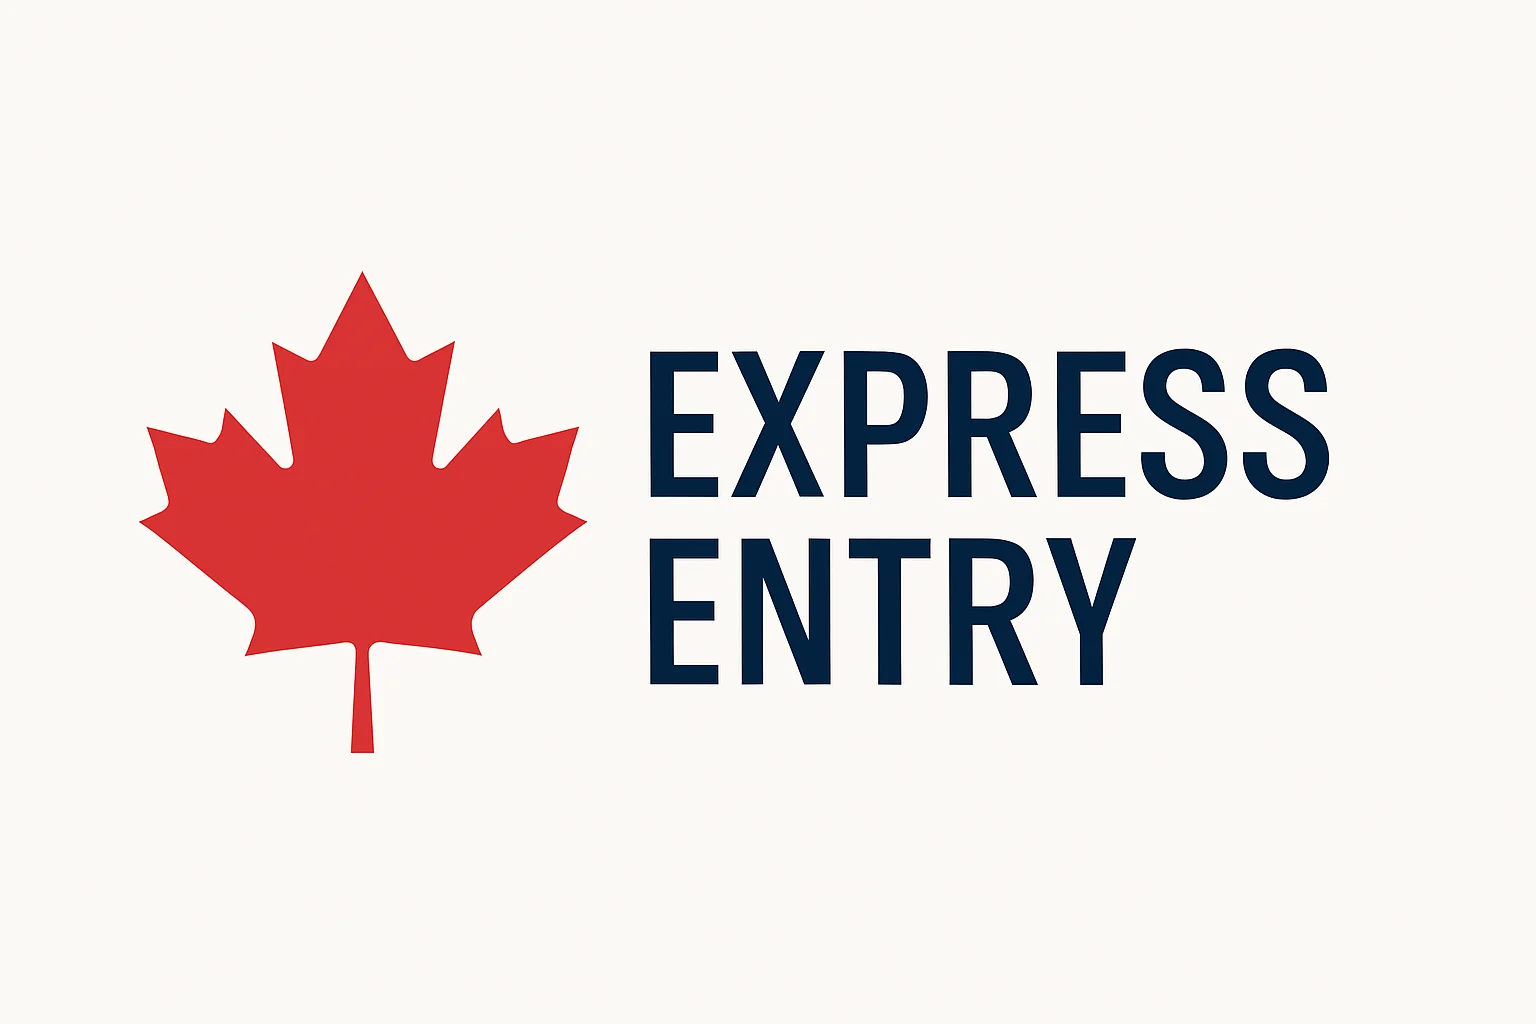
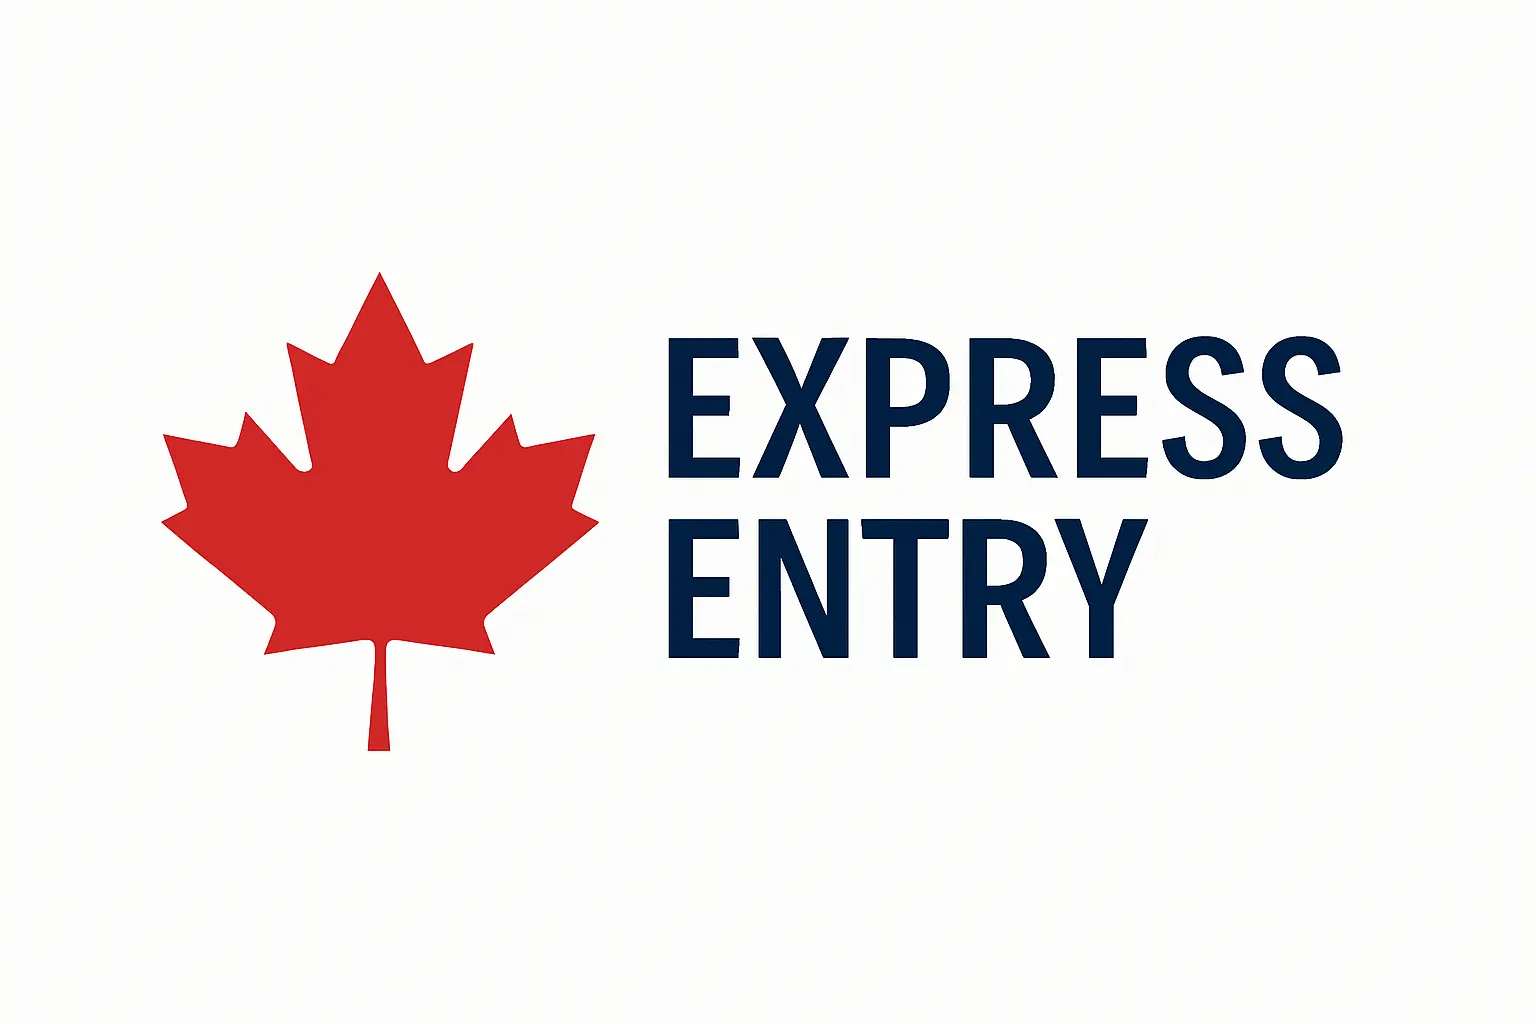
index

Changed region(s): [[0.0938, 0.25, 0.875, 0.6875], [0.2188, 0.5625, 0.3438, 0.75]]

diff --git a/project/pathways.html b/project/pathways.html
@@ -3,14 +3,16 @@
     <meta charset="UTF-8" />
     <meta name="viewport" content="width=device-width, initial-scale=1.0" />
     <title>Immigration Pathways</title>
+    <link href="https://fonts.googleapis.com/css2?family=Montserrat:wght@400;700&family=Roboto:wght@400;700&display=swap" rel="stylesheet">
     <link rel="stylesheet" href="styles/main.css" />
     <link rel="stylesheet" href="styles/main-large.css" />
+    <link rel="icon" href="images/logo.webp" type="image/webp">
     <script src="scripts/main.js" defer></script>
     <script src="scripts/lazyload.js" defer></script>  
 </head>
 <body>
     <header>
-        <img src="images/logo.webp" alt="Logo" class="logo">
+        <img src="images/logo2.webp" alt="Logo" class="logo">
         <nav>
             <ul>
                 <li><a href="index.html">Home</a></li>

diff --git a/project/settlement.html b/project/settlement.html
@@ -4,14 +4,16 @@
     <meta charset="UTF-8" />
     <meta name="viewport" content="width=device-width, initial-scale=1.0" />
     <title>Settlement & Resources</title>
+    <link href="https://fonts.googleapis.com/css2?family=Montserrat:wght@400;700&family=Roboto:wght@400;700&display=swap" rel="stylesheet">
     <link rel="stylesheet" href="styles/main.css" />
     <link rel="stylesheet" href="styles/main-large.css" />
+    <link rel="icon" href="images/logo.webp" type="image/webp">
     <script src="scripts/main.js" defer></script>
     <script src="scripts/lazyload.js" defer></script>
 </head>
 <body>
     <header>
-        <img src="images/logo.webp" alt="Logo" class="logo">
+        <img src="images/logo2.webp" alt="Logo" class="logo">
         <nav>
             <ul>
                 <li><a href="index.html">Home</a></li>

diff --git a/project/index.html b/project/index.html
@@ -7,12 +7,13 @@
     <link href="https://fonts.googleapis.com/css2?family=Montserrat:wght@400;700&family=Roboto:wght@400;700&display=swap" rel="stylesheet">
     <link rel="stylesheet" href="styles/main.css">
     <link rel="stylesheet" href="styles/main-large.css"/>
+    <link rel="icon" href="images/logo.webp" type="image/webp">
     <script src="scripts/main.js" defer></script>
     <script src="scripts/lazyload.js" defer></script>
 </head>
 <body>
 <header>
-    <img src="images/logo.webp" alt="Logo" class="logo">
+    <img src="images/logo2.webp" alt="Logo" class="logo">
     <nav>
         <ul>
             <li><a href="index.html">Home</a></li>

diff --git a/project/styles/main-large.css b/project/styles/main-large.css
@@ -41,7 +41,7 @@
 
     header .logo {
     margin: 0;
-    width: 50px;
+    width: 300px;
     }
 
     header nav ul {

diff --git a/project/styles/main.css b/project/styles/main.css
@@ -93,5 +93,5 @@ footer {
 }
 
 h2 {
-    font-size:xx-large;
+    font-size: 34px;
 }
